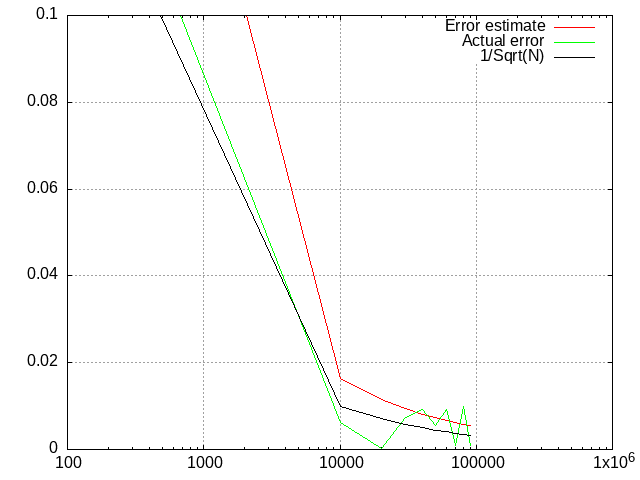
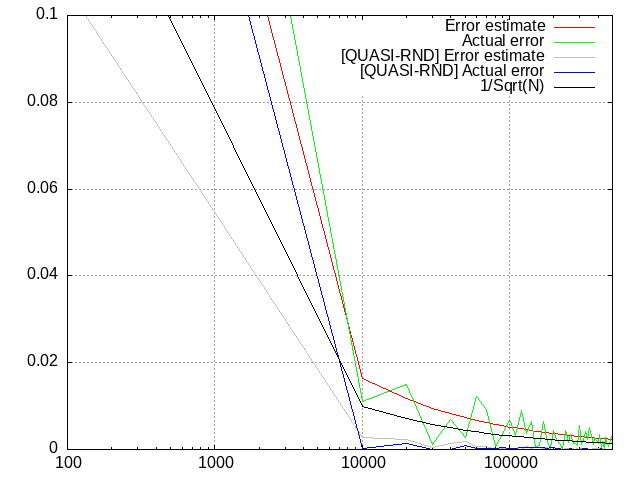
montecarlo B

diff --git a/homework/MonteCarlo/main.cs b/homework/MonteCarlo/main.cs
@@ -10,26 +10,28 @@ public class MC{
 
         double r_1 = 1.0;
         Func <vector,double> circle = x => {
-            double r = 1.0;
-            if(Pow(x[0],2)+Pow(x[1],2) <= Pow(r,2)){return 1;}
+            if(x.norm() <= 1){return 1;}
             return 0;
             };
         vector a_1 = new vector(-r_1,-r_1);
         vector b_1 = new vector(r_1,r_1);
         //Error.Write($"{circle(b_1)}\n");
-        int N_1 = 300000;
+        int N_1 = 1000000;
         MonteCarlo instance = new MonteCarlo();
         var (result_1,error_1) = instance.plainmc(circle,a_1,b_1,N_1);
         Error.Write($"Result with N={N_1}: {result_1}, Error: {error_1}\n");
+        
 
         //OK nu laver du et plot af error som funktion af N:
-        for(int N = 30; N<100000; N+=10000){
+        for(int N = 30; N<500000; N+=10000){
+            var (est_result_qr,est_error_qr) = new MonteCarlo().quasimc(circle,a_1,b_1,N);
             var (est_result,est_error) = new MonteCarlo().plainmc(circle,a_1,b_1,N);
             double act_error = Abs(PI-est_result);
-            Write($"{N} {est_error} {act_error}\n");
+            double act_error_qr = Abs(PI-est_result_qr);
+            Write($"{N} {est_error} {act_error} {est_error_qr} {act_error_qr}\n");
         }
         Write($"\n\n");
-        for(int N = 30; N<100000; N+=10000){Write($"{N} {1.0/Sqrt(N)}\n");}
+        for(int N = 30; N<500000; N+=10000){Write($"{N} {1.0/Sqrt(N)}\n");}
         //snabel-a gør dig i stand til at splitte string i flere linjer
         Error.Write("The actual error is larger than 1/sqrt(N) for small N,\n"+
         "then converges towards 1/sqrt(N) for larger N>10 000 \n");
@@ -40,10 +42,17 @@ public class MC{
         Func <vector,double> cosin = x => {
             return 1/(Pow(PI,3) * (1-Cos(x[0])*Cos(x[1])*Cos(x[2])));};
 
-        int N_2 = 100000;
+        int N_2 = 1000000;
         var (result_2,error_2) = new MonteCarlo().plainmc(cosin,a_2,b_2,N_2);
         Error.Write($"Result with N={N_2}: {result_2}, Error: {error_2}\n");
 
 
+        //OPG B
+
+        var (result_qr,error_qr) = instance.quasimc(circle,a_1,b_1,N_1);
+        Error.Write($"Result with quasi random sequence N={N_1}: {result_qr}, Error: {error_qr}\n");
+
     }
+
+    
 }

diff --git a/homework/MonteCarlo/MC.cs b/homework/MonteCarlo/MC.cs
@@ -4,6 +4,7 @@ using static System.Math;
 
 
 public class MonteCarlo{
+    static int[] bases = {2,3,5,7,11,13,17,19,23,29,31,37,41,43,47,53,59,61};
     public (double,double) plainmc(Func<vector,double> f,vector a,vector b,int N){
         int dim=a.size; double V=1; 
         for(int i=0;i<dim;i++){V*=b[i]-a[i];}
@@ -17,5 +18,55 @@ public class MonteCarlo{
             double mean=sum/N, sigma=Sqrt(sum2/N-mean*mean);
             var result=(mean*V,sigma*V/Sqrt(N));
             return result;
+    }
+
+    public (double,double) quasimc(Func<vector,double> f,vector a,vector b,int N){
+        int dim = a.size; double V=1;
+        for(int i=0; i<dim; i++){V*=b[i]-a[i];} // så V er et slags areal/rumfang
+        var x = new vector(dim);
+        double sum=0,sum2=0;
+        var x_next = new vector(dim);
+        double sum_next=0,sum2_next=0;
+        for(int i=0; i<N; i++){
+            for(int k=0;k<dim;k++){
+                x[k]=a[k]+halton(i,dim)[k]*(b[k]-a[k]);
+                x_next[k]= a[k]+halton(i,dim,1)[k]*(b[k]-a[k]);}
+            //initierer værdier
+            double fx = f(x); 
+            double fx_next=f(x_next);
+            sum+=fx;
+            sum_next+=fx_next;
+            sum2+=fx*fx;
+            sum2_next+=fx_next*fx_next;
+        }
+        double result = sum/N*V;
+        double result_next = sum_next/N*V;
+        return (result, Abs(result-result_next));
+
+
+    }
+
+    public static double corput ( int n , int b){
+        //spytter alle mulige værdier ud mellem 0 og 1
+        double q=0;
+        double bk=(double)1.0/b ;
+        while (n>0){ 
+        q += (n % b)* bk ;
+        n /= b ;
+        bk /= b ; 
+        //Error.Write($"{q}");
+        }
+        return q ; 
+    }
+
+    public static vector halton( int n, int d, int sequence=0){
+        vector halton = new vector(d);
+        if( d<bases.Length){
+        for(int i=0; i<d; i++){
+            if(sequence==0) halton[i]=corput(n,bases[i]);
+            if(sequence==1) halton[i]=corput(n,bases[i+d]);}
+        }
+        else{Error.Write("wrong dimensions \n");}
+        return halton;
     }
 }
